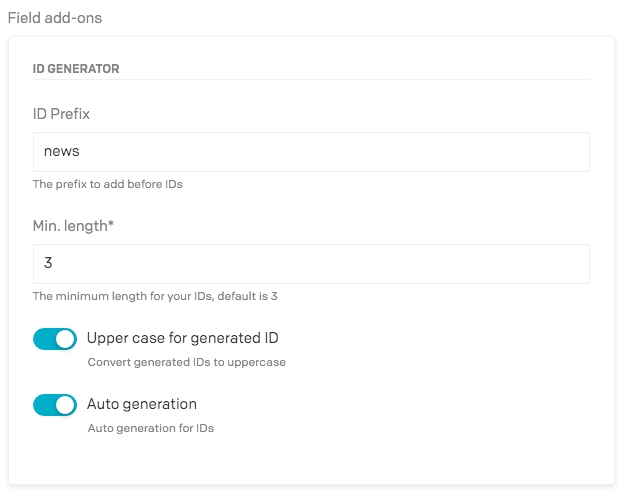
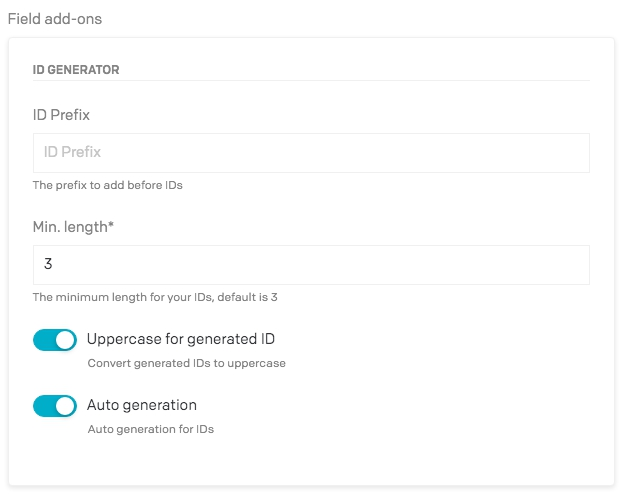
Fix title and Uppercase instance

diff --git a/README.md b/README.md
@@ -25,11 +25,11 @@ When applying this plugin to your field you can set the following settings:
 
 ![Plugin settings fields](https://github.com/FoxyGirl/datocms-plugin-random-id-generator/raw/master/docs/03-configuration.jpg)
 
-The result of plugin working appears in the sidebar:
+The result of plugin working appears in the field:
 
 ![ID generator](https://github.com/FoxyGirl/datocms-plugin-random-id-generator/raw/master/docs/04-using.jpg)
 
-Clicking on the link "Generate ..." generates random ID according to settings.
+Click on the link "Generate ..." generates random ID according to settings.
 
 ## Development
 ____
